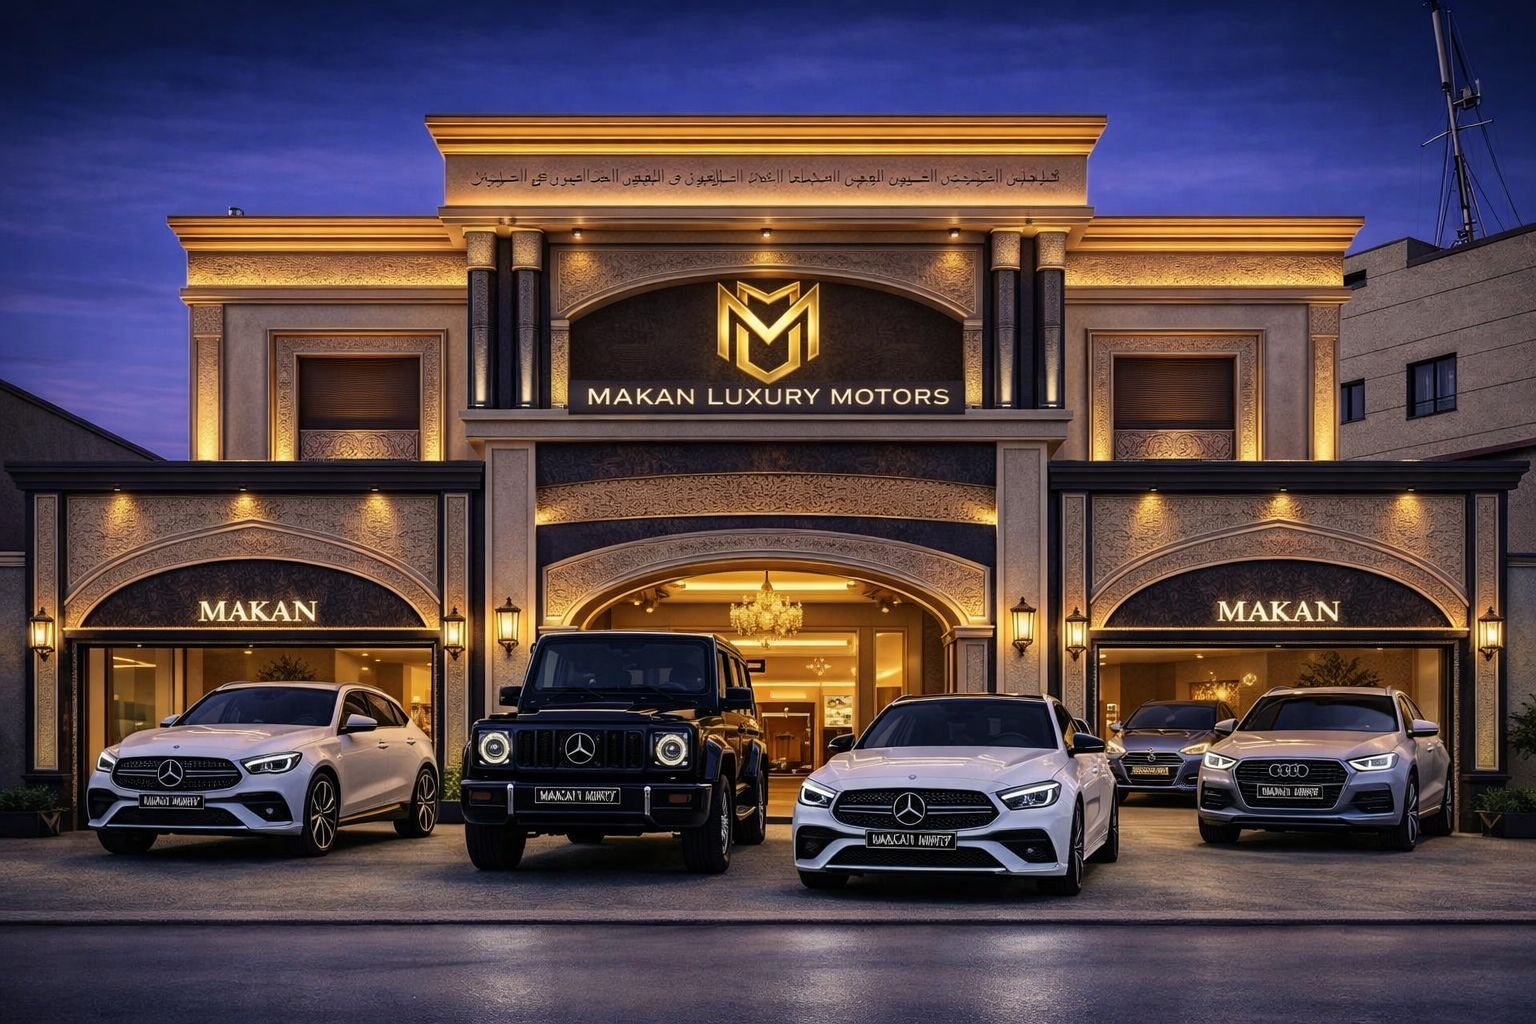
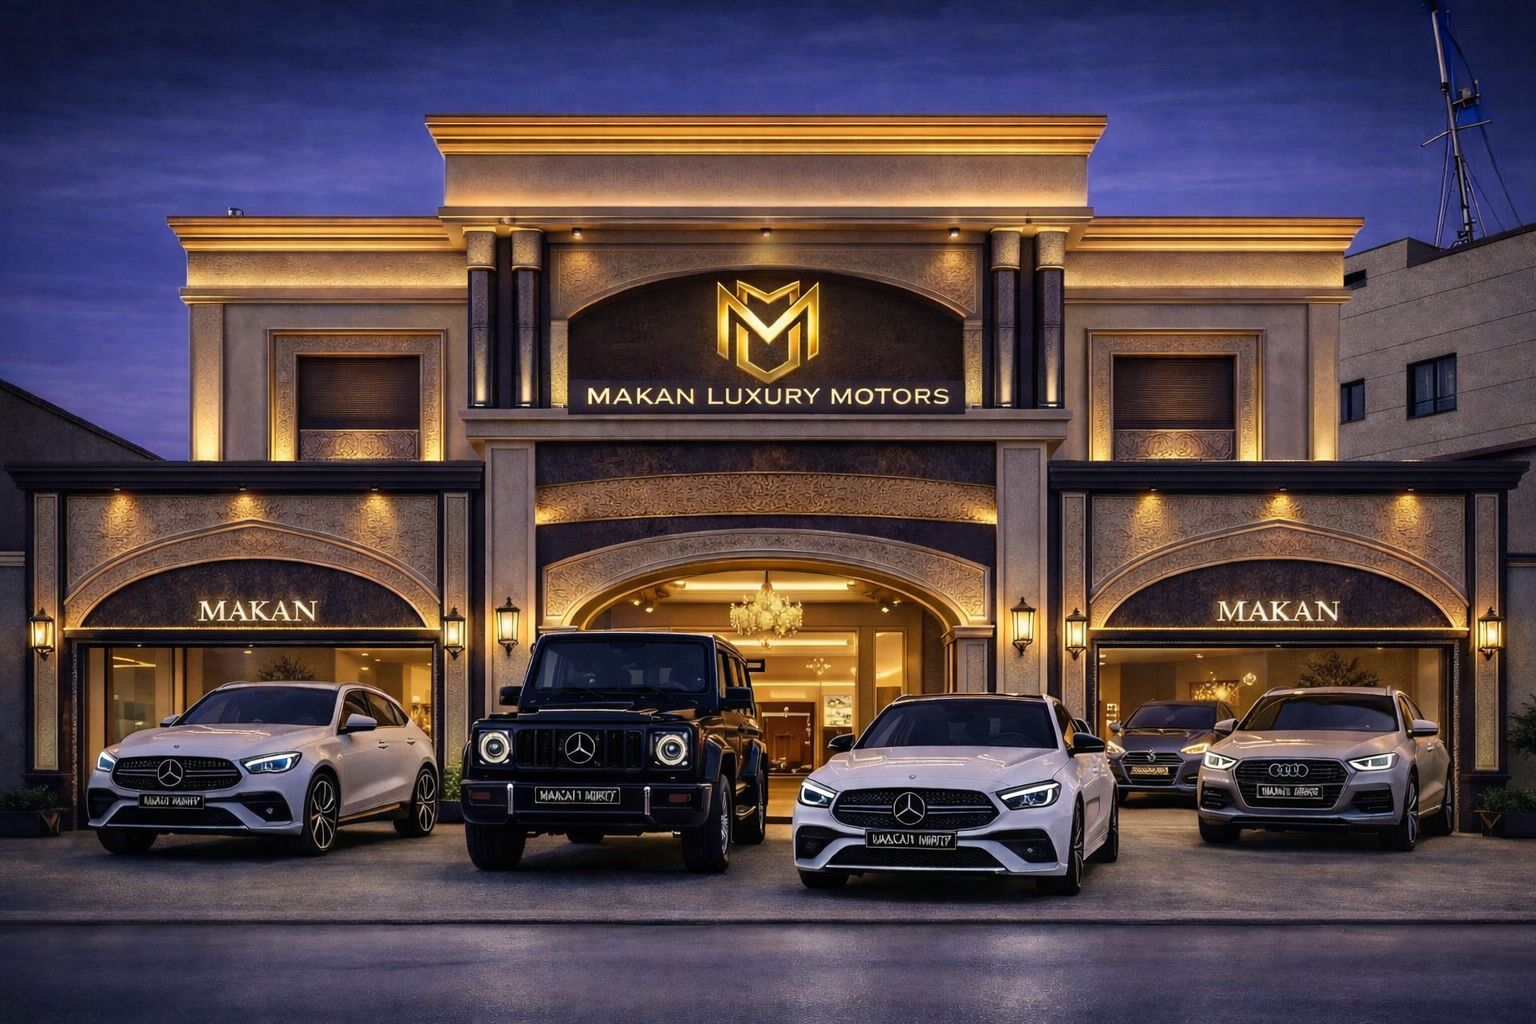
Refine showroom hero and header visuals

diff --git a/components/platform/showroom-hero.tsx b/components/platform/showroom-hero.tsx
@@ -8,8 +8,6 @@ import { useCurrentLocale, useTranslations } from '@/lib/i18n/client'
 import { withLocalePath } from '@/lib/i18n/config'
 
 const STYLES = `
-  @import url('https://fonts.googleapis.com/css2?family=Cormorant+Garamond:ital,wght@0,300;0,400;0,600;1,300;1,400&family=Montserrat:wght@300;400;500;600&display=swap');
-
   @keyframes fadeUp {
     from { opacity: 0; transform: translateY(32px); }
     to   { opacity: 1; transform: translateY(0); }
@@ -57,6 +55,63 @@ const STYLES = `
 
   .sh-dot { animation: pulseGold 2.6s ease-in-out infinite; }
   .sh-scroll-dot { animation: scrollDown 1.8s ease-in-out infinite; }
+  .sh-hero {
+    background:
+      radial-gradient(circle at top, rgba(212,167,67,0.1), transparent 34%),
+      linear-gradient(180deg, #05070b 0%, #09111b 100%);
+  }
+  .sh-content {
+    position: relative;
+    z-index: 10;
+    flex: 1;
+    display: flex;
+    align-items: center;
+    padding: clamp(5.75rem, 10vw, 8rem) clamp(1.5rem, 6vw, 6rem);
+    max-width: 820px;
+  }
+  .sh-bg {
+    position: absolute;
+    inset: 0;
+    z-index: 0;
+  }
+  .sh-bg-image {
+    width: 100%;
+    height: 100%;
+    object-fit: cover;
+    object-position: center 42%;
+    display: block;
+    transform: scale(1.03);
+    transform-origin: center;
+    filter: saturate(0.92);
+  }
+  .sh-subcopy {
+    max-width: 44ch;
+  }
+  .sh-bottom-bar {
+    position: relative;
+    z-index: 10;
+    border-top: 1px solid rgba(255,255,255,0.07);
+    background: rgba(4,5,8,0.55);
+    backdrop-filter: blur(20px);
+    -webkit-backdrop-filter: blur(20px);
+    padding: 0.9rem clamp(1.5rem, 6vw, 6rem);
+    display: flex;
+    align-items: center;
+    justify-content: space-between;
+    gap: 1rem;
+    flex-wrap: wrap;
+  }
+  .sh-brand-strip {
+    display: flex;
+    gap: 2.5rem;
+    flex-wrap: wrap;
+  }
+  .sh-scroll-indicator {
+    display: flex;
+    flex-direction: column;
+    align-items: center;
+    gap: 6px;
+  }
 
   .sh-cta-primary {
     display: inline-flex; align-items: center; gap: 8px;
@@ -103,6 +158,44 @@ const STYLES = `
     .sh-stats-row { flex-direction: column !important; }
     .sh-btns { flex-direction: column !important; align-items: stretch !important; }
     .sh-btns a, .sh-btns a { justify-content: center; text-align: center; }
+    .sh-content {
+      max-width: none;
+      align-items: flex-end;
+      padding: 5.75rem 1.1rem 2.5rem !important;
+    }
+    .sh-bg-image {
+      object-position: center center;
+      transform: scale(1);
+    }
+    .sh-mobile-overlay {
+      background:
+        linear-gradient(to top, rgba(4,5,8,0.92) 0%, rgba(4,5,8,0.58) 34%, rgba(4,5,8,0.18) 62%, transparent 100%),
+        linear-gradient(to bottom, rgba(4,5,8,0.75) 0%, rgba(4,5,8,0.18) 28%, transparent 52%) !important;
+    }
+    .sh-mobile-glow {
+      background: radial-gradient(ellipse 62% 56% at 50% 18%, rgba(160,100,20,0.2) 0%, transparent 72%) !important;
+    }
+    .sh-subcopy {
+      max-width: none !important;
+      margin-bottom: 2rem !important;
+      color: rgba(255,255,255,0.68) !important;
+      line-height: 1.72 !important;
+    }
+    .sh-bottom-bar {
+      padding: 0.85rem 1.1rem !important;
+      justify-content: center !important;
+      gap: 0.75rem !important;
+    }
+    .sh-brand-strip {
+      width: 100%;
+      justify-content: center;
+      gap: 0.9rem 1.25rem;
+    }
+    .sh-brand-strip span {
+      font-size: 8px !important;
+      letter-spacing: 0.22em !important;
+    }
+    .sh-scroll-indicator { display: none !important; }
   }
 `
 
@@ -166,37 +259,30 @@ export function ShowroomHero({ car }: { car: ShowroomCar }) {
       <style dangerouslySetInnerHTML={{ __html: STYLES }} />
 
       <section
+        className="sh-hero"
         dir={dir}
         style={{
           position: 'relative',
           minHeight: '100svh',
           overflow: 'hidden',
-          fontFamily: "'Montserrat', sans-serif",
+          fontFamily: 'var(--font-ui), sans-serif',
           display: 'flex',
           flexDirection: 'column',
         }}
       >
         {/* ── BACKGROUND IMAGE full bleed ── */}
-        <div className="sh-a1" style={{ position: 'absolute', inset: 0, zIndex: 0 }}>
+        <div className="sh-a1 sh-bg">
           <img
+            className="sh-bg-image"
             src="/background.png"
             alt=""
             aria-hidden="true"
-            style={{
-              width: '100%',
-              height: '100%',
-              objectFit: 'cover',
-              objectPosition: 'center 40%',
-              display: 'block',
-              transform: 'scale(1.08)',
-              transformOrigin: 'center',
-            }}
           />
         </div>
 
         {/* ── OVERLAYS ── */}
         {/* Directional dark gradient — text side gets opaque, photo side stays visible */}
-        <div style={{
+        <div className="sh-mobile-overlay" style={{
           position: 'absolute', inset: 0, zIndex: 1, pointerEvents: 'none',
           background: isArabic
             ? `
@@ -212,7 +298,7 @@ export function ShowroomHero({ car }: { car: ShowroomCar }) {
         }} />
 
         {/* Warm gold glow behind text area */}
-        <div style={{
+        <div className="sh-mobile-glow" style={{
           position: 'absolute', inset: 0, zIndex: 1, pointerEvents: 'none',
           background: isArabic
             ? 'radial-gradient(ellipse 45% 65% at 92% 55%, rgba(160,100,20,0.15) 0%, transparent 65%)'
@@ -220,14 +306,8 @@ export function ShowroomHero({ car }: { car: ShowroomCar }) {
         }} />
 
         {/* ── MAIN CONTENT ── */}
-        <div style={{
-          position: 'relative', zIndex: 10,
-          flex: 1,
-          display: 'flex',
-          alignItems: 'center',
-          padding: 'clamp(6rem, 10vw, 8rem) clamp(1.5rem, 6vw, 6rem)',
+        <div className="sh-content" style={{
           /* Limit text column to left (or right for RTL) ~55% of screen */
-          maxWidth: '820px',
           marginLeft: isArabic ? 'auto' : 0,
           marginRight: isArabic ? 0 : 'auto',
         }}>
@@ -261,7 +341,7 @@ export function ShowroomHero({ car }: { car: ShowroomCar }) {
 
             {/* Headline */}
             <h1 className="sh-a3" style={{
-              fontFamily: "'Cormorant Garamond', serif",
+              fontFamily: 'var(--font-display), serif',
               fontWeight: 300,
               fontSize: 'clamp(3.4rem, 7.5vw, 7rem)',
               lineHeight: 0.9,
@@ -292,11 +372,10 @@ export function ShowroomHero({ car }: { car: ShowroomCar }) {
             />
 
             {/* Sub-description */}
-            <p className="sh-a4" style={{
+            <p className="sh-a4 sh-subcopy" style={{
               fontSize: 'clamp(0.875rem, 1.4vw, 1rem)',
               lineHeight: 1.9,
               color: 'rgba(255,255,255,0.55)',
-              maxWidth: '44ch',
               marginBottom: '2.5rem',
               textShadow: '0 2px 12px rgba(0,0,0,0.6)',
               marginLeft: isArabic ? 'auto' : 0,
@@ -340,7 +419,7 @@ export function ShowroomHero({ car }: { car: ShowroomCar }) {
               {stats.map((s, i) => (
                 <div key={i} className="sh-stat" style={{ padding: '1.1rem 1.8rem', textAlign: 'center' }}>
                   <p style={{
-                    fontFamily: "'Cormorant Garamond', serif",
+                    fontFamily: 'var(--font-display), serif',
                     fontWeight: 300,
                     fontSize: 'clamp(1.7rem, 2.8vw, 2.1rem)',
                     letterSpacing: '-0.02em',
@@ -363,19 +442,10 @@ export function ShowroomHero({ car }: { car: ShowroomCar }) {
         </div>
 
         {/* ── BOTTOM BAR ── */}
-        <div style={{
-          position: 'relative', zIndex: 10,
-          borderTop: '1px solid rgba(255,255,255,0.07)',
-          background: 'rgba(4,5,8,0.55)',
-          backdropFilter: 'blur(20px)',
-          WebkitBackdropFilter: 'blur(20px)',
-          padding: '0.9rem clamp(1.5rem, 6vw, 6rem)',
-          display: 'flex', alignItems: 'center',
-          justifyContent: 'space-between', gap: '1rem',
-          flexWrap: 'wrap',
+        <div className="sh-bottom-bar" style={{
           flexDirection: isArabic ? 'row-reverse' : 'row',
         }}>
-          <div style={{ display: 'flex', gap: '2.5rem', flexWrap: 'wrap' }}>
+          <div className="sh-brand-strip">
             {['Rolls-Royce', 'Bentley', 'Lamborghini', 'Ferrari', 'Porsche', 'Mercedes-AMG'].map((b, i) => (
               <span key={i} style={{
                 fontSize: '9px', letterSpacing: '0.32em',
@@ -387,7 +457,7 @@ export function ShowroomHero({ car }: { car: ShowroomCar }) {
           </div>
 
           {/* Scroll indicator */}
-          <div style={{ display: 'flex', flexDirection: 'column', alignItems: 'center', gap: '6px' }}>
+          <div className="sh-scroll-indicator">
             <div style={{
               width: 1, height: 28,
               background: 'rgba(255,255,255,0.15)',

diff --git a/components/platform/site-header-client.tsx b/components/platform/site-header-client.tsx
@@ -9,6 +9,7 @@ import { LogoutButton } from '@/components/platform/logout-button'
 import { LanguageSwitcher } from '@/components/platform/language-switcher'
 import { useCurrentLocale, useTranslations } from '@/lib/i18n/client'
 import { withLocalePath } from '@/lib/i18n/config'
+import { cn } from '@/lib/utils'
 
 type SiteHeaderClientProps = {
   profile: Profile | null
@@ -34,6 +35,32 @@ function NavLink({
   )
 }
 
+function NavbarLogo({ mobile = false }: { mobile?: boolean }) {
+  return (
+    <span
+      className={cn(
+        'relative block overflow-hidden rounded-[999px] border border-[#d4a743]/18 bg-[linear-gradient(180deg,rgba(11,14,20,0.98),rgba(5,7,11,1))] shadow-[0_24px_52px_-32px_rgba(0,0,0,0.96)]',
+        mobile ? 'h-[3.35rem] w-[9rem]' : 'h-[3.7rem] w-[10rem] lg:h-[3.95rem] lg:w-[10.8rem]',
+      )}
+      aria-hidden="true"
+    >
+      <span className="absolute inset-[1px] rounded-[999px] border border-white/7" />
+      <span className="absolute inset-[6px] rounded-[999px] border border-[#d4a743]/18" />
+      <Image
+        src="/logo.png"
+        alt="Makan Luxury Motors"
+        fill
+        priority
+        sizes={mobile ? '(max-width: 767px) 144px' : '(max-width: 1279px) 160px, 172px'}
+        className={cn(
+          'object-contain opacity-[0.98] drop-shadow-[0_10px_28px_rgba(0,0,0,0.45)]',
+          mobile ? 'scale-[1.18] p-[0.15rem]' : 'scale-[1.14] p-[0.2rem]',
+        )}
+      />
+    </span>
+  )
+}
+
 export function SiteHeaderClient({ profile }: SiteHeaderClientProps) {
   const [mobileOpen, setMobileOpen] = useState(false)
   const locale = useCurrentLocale()
@@ -51,25 +78,16 @@ export function SiteHeaderClient({ profile }: SiteHeaderClientProps) {
   }
 
   return (
-    <header className="sticky top-0 z-40 border-b border-white/10 bg-[#050607]/92 pt-1 sm:pt-2 backdrop-blur-2xl">
+    <header className="sticky top-0 z-40 border-b border-[#d4a743]/12 bg-[linear-gradient(180deg,rgba(5,7,10,0.96),rgba(6,9,14,0.88))] pt-1 sm:pt-2 backdrop-blur-2xl">
       <div className="section-shell md:hidden" dir="ltr">
-        <div className="relative flex min-h-[6.25rem] items-center justify-center py-2">
-
+        <div className="relative flex min-h-[5.85rem] items-center justify-center py-2">
           <Link
             href={withLocalePath('/', locale)}
             aria-label="Makan Luxury Motors"
-            className="relative z-10 flex items-center justify-center pt-1"
+            className="relative z-10 flex max-w-[calc(100%-4.75rem)] items-center justify-center"
             onClick={closeMenu}
           >
-            <Image
-              src="/logo.png"
-              alt="Makan Luxury Motors"
-              width={240}
-              height={56}
-              priority
-              className="h-10 w-auto sm:h-11"
-              sizes="(max-width: 639px) 200px, 220px"
-            />
+            <NavbarLogo mobile />
           </Link>
 
           <button
@@ -77,7 +95,7 @@ export function SiteHeaderClient({ profile }: SiteHeaderClientProps) {
             onClick={() => setMobileOpen((current) => !current)}
             aria-label={mobileOpen ? 'Fermer le menu' : 'Ouvrir le menu'}
             aria-expanded={mobileOpen}
-            className="absolute right-0 top-1/2 z-10 inline-flex h-12 w-12 -translate-y-1/2 items-center justify-center rounded-full border border-white/14 bg-white/[0.03] text-white shadow-[0_16px_36px_-20px_rgba(0,0,0,0.9)] transition hover:bg-white/10"
+            className="absolute right-0 top-1/2 z-10 inline-flex h-12 w-12 -translate-y-1/2 items-center justify-center rounded-full border border-[#d4a743]/18 bg-[rgba(255,255,255,0.04)] text-white shadow-[0_16px_36px_-20px_rgba(0,0,0,0.9)] transition hover:bg-white/10"
           >
             {mobileOpen ? <X size={26} /> : <Menu size={26} />}
           </button>
@@ -88,7 +106,7 @@ export function SiteHeaderClient({ profile }: SiteHeaderClientProps) {
             mobileOpen ? 'max-h-[520px] pb-4 opacity-100' : 'max-h-0 pb-0 opacity-0'
           }`}
         >
-          <div className="rounded-[26px] border border-white/10 bg-[linear-gradient(180deg,rgba(255,255,255,0.06),rgba(255,255,255,0.02))] p-3 shadow-[0_24px_80px_-44px_rgba(0,0,0,0.92)] backdrop-blur-xl">
+          <div className="rounded-[26px] border border-[#d4a743]/14 bg-[linear-gradient(180deg,rgba(255,255,255,0.07),rgba(9,12,18,0.78))] p-3 shadow-[0_24px_80px_-44px_rgba(0,0,0,0.92)] backdrop-blur-xl">
             <nav className="flex flex-col gap-1">
               {primaryLinks.map((link) => (
                 <Link
@@ -152,18 +170,10 @@ export function SiteHeaderClient({ profile }: SiteHeaderClientProps) {
           <Link
             href={withLocalePath('/', locale)}
             aria-label="Makan Luxury Motors"
-            className="mx-auto flex items-center justify-center pt-1 md:justify-self-center"
+            className="mx-auto flex items-center justify-center md:justify-self-center"
             onClick={closeMenu}
           >
-            <Image
-              src="/logo.png"
-              alt="Makan Luxury Motors"
-              width={280}
-              height={64}
-              priority
-              className="h-11 w-auto md:h-12 lg:h-[3.25rem]"
-              sizes="(max-width: 1023px) 240px, 280px"
-            />
+            <NavbarLogo />
           </Link>
 
           <div className="hidden items-center gap-1 sm:gap-2 md:flex md:min-w-0 md:flex-wrap md:justify-end">
